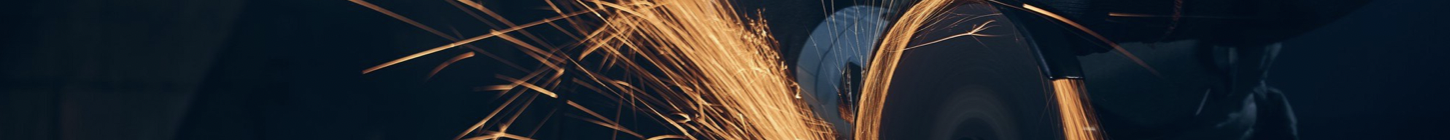
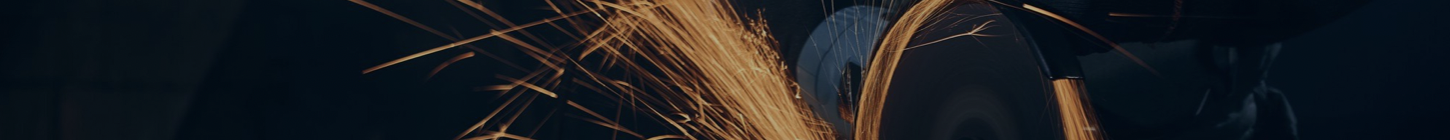
about-company-bg

diff --git a/public/index.html b/public/index.html
@@ -10,8 +10,8 @@
       href="https://fonts.googleapis.com/css2?family=Open+Sans:ital,wght@0,300..800;1,300..800&display=swap"
       rel="stylesheet"
     />
-
-    <meta
+    <meta name="robots" content="noindex" />
+    <!-- <meta
       name="keywords"
       content="ООО “МПС”, МПС, металлоцентр МПС, металлоцентр мпс, металлобаза мпс, металлобаза МПС, металл мариуполь мпс, металл мариуполь, металлобаза мариуполь, днр купить металл, днр купить металлопрокат, мариуполь купить металл, мариуполь купить металлопрокат, металлоконструкции Мариуполь заказать, металлоконструкции Мариуполь купить, металлоконструкции Мариуполь, металлоконструкции ДНР Мариуполь, металлоконструкции Мариуполь днр,  металлоконструкции днр мариуполь, металлоконструкции под заказ, чертежи кмд, арматура мариуполь купить, уголок мариуполь купить, круг мариуполь купить, полоса мариуполь купить, металлоизделия мариуполь купить, лист мариуполь купить, листовой прокат мариуполь купить, швеллер мариуполь купить, балки мариуполь купить, проволока мариуполь купить, лист горячекатаный мариуполь купить, лист толщина 2 мм мариуполь купить, плита мариуполь купить, лист толщина 10 мм мариуполь купить, лист толщина 20 мм мариуполь купить, лист толщина 8 мм мариуполь купить, лист толщина 6 мм мариуполь купить, лист толщина 25 мм мариуполь купить, лист толщина 50 мм мариуполь купить, лист толщина 60 мм мариуполь купить, лист толщина 70 мм мариуполь купить, лист толщина 80 мм мариуполь купить, лист толщина 90 мм мариуполь купить, лист толщина 100 мм мариуполь купить, лист толщина 3 мм мариуполь купить, металлоцентр, металлоконструкции производство, металлоконструкции для промышленного и коммерческого производства, поставщик металлопроката, изготовление металлоконструкций, изготовление колонн, производство колонн, производство опор, производство балок перекрытия, производство ферм, производство каркасов зданий, производство каркасов, производство стоек, производство навесов, производство павильонов, производство заборов, производство калиток, изготовление опор, изготовление балок перекрытия, изготовление ферм, изготовление колонн, изготовление заборов, изготовление калиток, изготовление ограждающих элементов, холодная ковка, изготовление павильонов, изготовление навесов, изготовление стоек, механическая обработка мариуполь, услуги по механической обработке днр мариуполь, купить заготовки мариуполь, купить заготовки из листа мариуполь, сборка металлоконструкций, разработка чертежей кмд, поэлементная сборка металлоконструкций в цехе, продажа металлопроката, продажа металлоконструкций, реализация металлопроката, реализация металлоконструкций, Левый берег, Левобережный район, Пржевальского 7, улица Пржевальского 7, Таганрогская 197, магазин Монолит, заказное производство металлоконструкций, сортовой прокат, сортовой прокат мариуполь, сортовой прокат днр, фасоный прокат, фасоный прокат днр, фасоный прокат мариуполь, листовой прокат, листовой прокат днр, листовой прокат мариуполь, трубный прокат, трубный прокат мариуполь, трубный прокат днр,  круглая труба купить мариуполь, квадратная труба купить мариуполь, прямоугольная труба купить мариуполь, трубы мариуполь, профильная труба купить мариуполь, изготовление декоративных изделий, изготовление декоративных элементов, изготовление декоративных элементов холодной ковки, изготовление уголков, изготовление  отводов, гибка труб ВГП, изготовление элементов для крыши, изготовление коньков, проволока вязальная, проволока оцинкованная, проволока черная мягкая, проволока черная жесткая, изготовление промышленных и коммерческих металлоконструкций по чертежам заказчика, любой удобный способ оплаты, самовывоз, купить квадрат мариуполь, труба элекстросварная купить мариуполь, арматура А3 купить мариуполь, арматура А500С мариуполь купить, арматура А1 купить мариуполь, арматура А240 купить мариуполь, гибка изделий, порезка в размер, вальцовочные работы, сверлильные работы, токарные работы, фрезерные работы, термическая резка, рубка на гильотине, пильные работы, сварочные работы, толстолистовой прокат Мариуполь купить"
     />
@@ -20,7 +20,7 @@
     <meta
       property="og:description"
       content="МПС - поставщик металлопроката и производитель промышленных и коммерческих металлоконструкций. "
-    />
+    /> -->
   </head>
   <body>
     <div id="root"></div>

diff --git a/src/pages/aboutCompanyPage/AboutCompanyPage.jsx b/src/pages/aboutCompanyPage/AboutCompanyPage.jsx
@@ -2,8 +2,8 @@ import { useEffect } from "react";
 import { useLocation } from "react-router-dom";
 import { Layout } from "../../components/layout";
 import forward from "../../images/forward-64.png";
-import image from "../../images/background/1.jpg";
-import { Helmet } from "react-helmet";
+import image from "../../images/background/4.jpg";
+// import { Helmet } from "react-helmet";
 
 export const AboutCompanyPage = () => {
   const location = useLocation();
@@ -26,7 +26,7 @@ export const AboutCompanyPage = () => {
 
   return (
     <Layout>
-      <Helmet>
+      {/* <Helmet>
         <title>
           МПС - Металлопрокат и металлоконструкции в Мариуполе - Купить
         </title>
@@ -34,18 +34,18 @@ export const AboutCompanyPage = () => {
           name="description"
           content="МПС - поставщик металлопроката и производитель промышленных и коммерческих металлоконструкций."
         />
-        {/* <meta property="og:url" content="https://mps-base.vercel.app/" />
-        <link rel="canonical" href="https://mps-base.vercel.app/" /> */}
+        <meta property="og:url" content="https://mps-base.vercel.app/" />
+        <link rel="canonical" href="https://mps-base.vercel.app/" />
         <meta name="robots" content="index" />
-      </Helmet>
+      </Helmet> */}
       <main className="w-full max-w-full">
         <div id="about-company" className="h-[162px]"></div>
         <section
-          className="bg-cover bg-left h-60 flex jusify-start xl:justify-center"
+          className="bg-cover bg-left-top h-60 flex jusify-start xl:justify-center"
           style={{ backgroundImage: `url(${image})` }}
         >
           <h1
-            className="tracking-tighter p-2 md:p-4 xl:w-4/5 max-w-screen-custom2xl flex items-center text-white text-[38px] sm:text-5xl "
+            className="tracking-tighter p-2 md:p-4 xl:w-4/5 max-w-screen-custom2xl flex items-center text-white text-[38px] sm:text-5xl"
             style={{
               textShadow: "4px 4px 30px #000000, -4px -4px 30px #000000",
             }}
@@ -78,8 +78,8 @@ export const AboutCompanyPage = () => {
                 </p>
               </div>
             </div>
-            <div className="absolute mt-[13px] md:w-3/4 xl:w-2/3 max-w-7xl h-[520px] lg:h-[400px] bg-customGray opacity-80"></div>
-            <div className="md:h-[520px] lg:h-[400px] md:relative md:w-3/5 lg:w-4/7 mb-[12px] md:border-[13px] md:ml-auto border-customOrange border-opacity-65 rounded-sm bg-white z-10">
+            <div className="absolute mt-[13px] md:w-4/5 xl:w-7/10 max-w-7xl h-[520px] lg:h-[400px] bg-customGray opacity-80"></div>
+            <div className="md:h-[520px] lg:h-[400px] md:relative md:w-3/5 lg:w-4/7 mb-[12px] md:border-[13px] md:ml-auto border-customOrange border-opacity-80 rounded-sm bg-white z-10">
               <div className="md:pl-32 lg:pl-10 2xl:pl-24 pt-12 lg:pt-12 right-0 flex flex-wrap justify-center lg:grid grid-cols-2 justify-items-center gap-16 md:gap-0">
                 <div className="w-[350px] lg:w-[200px] 2xl:w-[300px] h-[80px] lg:h-[150px] flex items-start">
                   <img

diff --git a/src/pages/productionsPage/ProductionsPage.jsx b/src/pages/productionsPage/ProductionsPage.jsx
@@ -2,9 +2,9 @@ import { useLocation } from "react-router-dom";
 import { useEffect } from "react";
 import { Layout } from "../../components/layout";
 import image from "../../images/background/2.jpg";
-import image1 from "../../images/background/34.png";
+import image1 from "../../images/background/3.png";
 import { useGetRestorationProductionsQuery } from "../../app/services/productions";
-import { Helmet } from "react-helmet";
+// import { Helmet } from "react-helmet";
 
 export const ProductionsPage = () => {
   const { data, isLoading } = useGetRestorationProductionsQuery();
@@ -28,7 +28,7 @@ export const ProductionsPage = () => {
 
   return (
     <Layout>
-      <Helmet>
+      {/* <Helmet>
         <title>
           Металлоконструкции и механическая обработка в Мариуполе - Купить
         </title>
@@ -36,13 +36,13 @@ export const ProductionsPage = () => {
           name="description"
           content="балки перекрытия и фермы, колонны и опоры, каркасы и стойки, павильоны и навесы, ограждающие и декоративные элементы."
         />
-        {/* <meta
+        <meta
           property="og:url"
           content="https://mps-base.vercel.app/productions"
         />
-        <link rel="canonical" href="https://mps-base.vercel.app/productions" /> */}
+        <link rel="canonical" href="https://mps-base.vercel.app/productions" />
         <meta name="robots" content="index" />
-      </Helmet>
+      </Helmet> */}
       <main className="w-full max-w-full">
         <div id="structures" className="h-[162px]"></div>
         <section
@@ -64,7 +64,7 @@ export const ProductionsPage = () => {
               Одним из направлений деятельности нашей компании является заказное
               производство металлоконструкций различной сложности и назначения:
             </p>
-            <ul className="text-lg text-start md:text-xl py-6 grid gap-2">
+            <ul className="text-lg text-start md:text-xl p-6 grid gap-2">
               <li>
                 <span className="text-customOrange font-black pr-3">•</span>
                 балки перекрытия и фермы;

diff --git a/src/pages/productsPage/ProductsPage.jsx b/src/pages/productsPage/ProductsPage.jsx
@@ -6,7 +6,7 @@ import {
   useGetTrubProductsQuery,
 } from "../../app/services/products";
 import { Layout } from "../../components/layout";
-import { Helmet } from "react-helmet";
+// import { Helmet } from "react-helmet";
 
 export const ProductsPage = () => {
   const { data: dataSort, isLoading: isLoadingSort } =
@@ -35,19 +35,19 @@ export const ProductsPage = () => {
 
   return (
     <Layout>
-      <Helmet>
+      {/* <Helmet>
         <title>Металлопрокат в Мариуполе - Купить</title>
         <meta
           name="description"
           content="Листовой прокат, сортовой прокат, трубная продукция"
         />
-        {/* <meta
+        <meta
           property="og:url"
           content="https://mps-base.vercel.app/products"
         />
-        <link rel="canonical" href="https://mps-base.vercel.app/products" /> */}
+        <link rel="canonical" href="https://mps-base.vercel.app/products" />
         <meta name="robots" content="index" />
-      </Helmet>
+      </Helmet> */}
       <main className="w-full border-gray-200 shadow-lg flex justify-center">
         <div className="px-4 pb-[180px] w-full xl:w-4/5 max-w-screen-custom2xl flex flex-col items-start border-b">
           <h2 id="sheet" className="pt-[220px] font-bold text-2xl">

diff --git a/src/pages/termsOfUse/TermsOfUse.jsx b/src/pages/termsOfUse/TermsOfUse.jsx
@@ -1,6 +1,6 @@
 import { useEffect } from "react";
 import { useLocation } from "react-router-dom";
-import { Helmet } from "react-helmet";
+// import { Helmet } from "react-helmet";
 
 export const TermsOfUse = () => {
   const location = useLocation();
@@ -23,9 +23,9 @@ export const TermsOfUse = () => {
 
   return (
     <div>
-      <Helmet>
+      {/* <Helmet>
         <meta name="robots" content="noindex" />
-      </Helmet>
+      </Helmet> */}
       <div className="py-10 px-4 lg:px-20 text-sm lg:text-base text-justify">
         <h1 className="text-base lg:text-xl font-bold">
           СОГЛАСИЕ НА ОБРАБОТКУ ПЕРСОНАЛЬНЫХ ДАННЫХ КЛИЕНТОВ

diff --git a/tailwind.config.js b/tailwind.config.js
@@ -20,6 +20,7 @@ module.exports = {
       },
       width: {
         "4/7": "57.142857%",
+        "7/10": "70%",
       },
     },
   },
